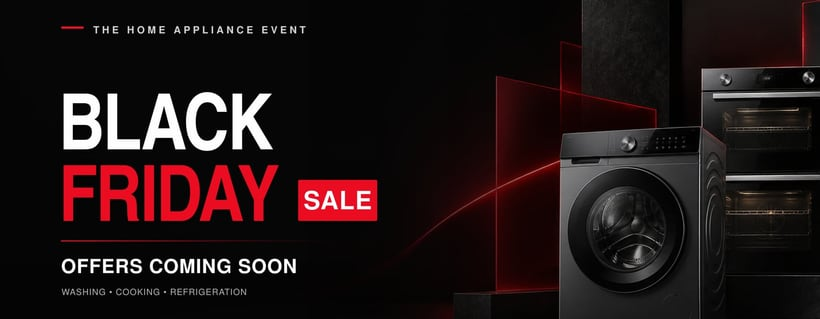
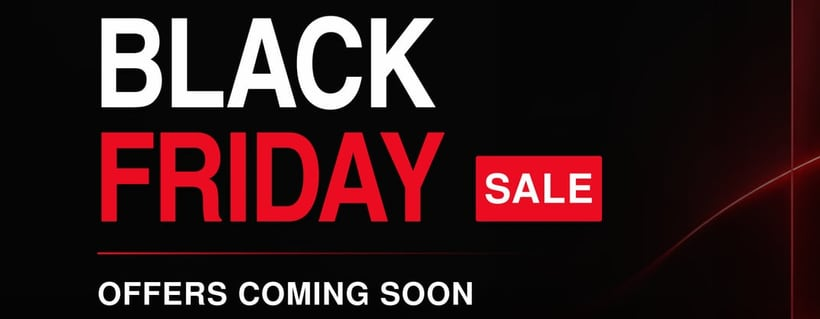
Delivery: the four towns and postcode groups the owner named
Greenford, Ealing, Southall and Watford join the area list, and the copy now
states the reach as HA, UB, W3-W6 and WD3-WD24 — on the homepage, its postcode
checker and the delivery page.

The checker had to change with it. It matched on letters alone, so adding W
would have told a W1 or W12 caller we deliver while the page said W3-W6, and WD
already covered WD1 and WD25. It now reads the district and honours the ranges.
Parsing that turned out to matter: stripping the space first read "W5 2AB" as
district 52, so it drops the three-character inward code instead. 21 cases
checked, including both ends of each range.

Also shrink the promo band from 407px to 255px: the Black Friday poster is
cropped to BLACK FRIDAY SALE and OFFERS COMING SOON, cut at the clean gap above
the category line, which leaves the Euronics banners with 19px of their own
colour rather than 95px.

diff --git a/components/PostcodeCheck.tsx b/components/PostcodeCheck.tsx
@@ -6,10 +6,26 @@ import { adSource } from "@/lib/ad-source";
 
 // Genuine own-van reach only (HA4 0QP shop). Wider prefixes go via the phone —
 // we'd sooner say "call us" than promise a van we can't send. Owner (Aug 2026):
-// "we deliver to certain WD, SL postcodes as well" — SL added; exact street is
-// still confirmed on the phone, which the result copy already says.
-const LOCAL = ["HA", "UB", "WD", "TW", "SL"];
-const outward = (pc: string) => pc.toUpperCase().replace(/\s+/g, "").match(/^[A-Z]{1,2}/)?.[0] || "";
+// "we deliver to certain WD, SL postcodes as well" — SL added. Sep 2026 he named
+// Greenford, Ealing, Southall and Watford and asked the site to say HA, UB,
+// W3-W6 and WD3-WD24, so W joins the list; the exact street is still confirmed
+// on the phone, which the result copy already says.
+const LOCAL = ["HA", "UB", "TW", "SL"];
+// W and WD are only partly ours: the owner's reach is W3-W6 and WD3-WD24, so
+// matching the bare letters would tell a W1 or a WD1 caller we deliver when the
+// rest of the page says we do not.
+const RANGES: [string, number, number][] = [["W", 3, 6], ["WD", 3, 24]];
+const isLocal = (pc: string) => {
+  // The inward code is always three characters, so dropping them is what leaves
+  // the district. Parsing the whole string instead read "W5 2AB" as district 52.
+  const clean = pc.toUpperCase().replace(/[^A-Z0-9]/g, "");
+  const outward = clean.length > 3 ? clean.slice(0, -3) : clean;
+  const m = outward.match(/^([A-Z]{1,2})(\d{1,2})?/);
+  if (!m) return false;
+  const [, area, num] = m;
+  if (LOCAL.includes(area)) return true;
+  return num !== undefined && RANGES.some(([a, lo, hi]) => a === area && +num >= lo && +num <= hi);
+};
 
 /** Inline hero postcode checker — a flat white strip on the royal-blue hero band. */
 export default function PostcodeCheck({ phone }: { phone: string }) {
@@ -20,7 +36,7 @@ export default function PostcodeCheck({ phone }: { phone: string }) {
     e.preventDefault();
     const pc = value.trim().toUpperCase();
     if (!pc) return;
-    const local = LOCAL.includes(outward(pc));
+    const local = isLocal(pc);
     setResult({ local, pc });
     // Same first-party "postcode_check" event the old prompt fired — the owner's
     // demand map and verify-analytics.mjs both depend on this exact shape.

diff --git a/app/page.tsx b/app/page.tsx
@@ -39,7 +39,8 @@ const STEPS = [
   ["04", "Arrange delivery / fitting", "We book in delivery and installation that suits you."],
 ];
 
-const AREAS = ["Ruislip", "South Ruislip", "Eastcote", "Northolt", "Pinner", "Ickenham", "Ruislip Manor"];
+const AREAS = ["Ruislip", "South Ruislip", "Eastcote", "Northolt", "Pinner", "Ickenham", "Ruislip Manor",
+  "Greenford", "Ealing", "Southall", "Watford"];
 
 export default async function Home() {
   const { products, categories, brands, business } = await loadCatalog();
@@ -456,8 +457,10 @@ export default async function Home() {
             </h2>
             <p className="mb-7 text-base leading-relaxed text-muted">
               Our own local delivery and fitting covers Ruislip, South Ruislip, Eastcote, Northolt, Pinner,
-              Ickenham and the surrounding HA postcodes. Because we deliver ourselves, we can talk you through
-              dates, access and installation before anything leaves the shop.
+              Ickenham, Greenford, Ealing, Southall and Watford — the <strong className="font-semibold text-ink">HA</strong>,{" "}
+              <strong className="font-semibold text-ink">UB</strong>, <strong className="font-semibold text-ink">W3&ndash;W6</strong>{" "}
+              and <strong className="font-semibold text-ink">WD3&ndash;WD24</strong> postcodes. Because we deliver
+              ourselves, we can talk you through dates, access and installation before anything leaves the shop.
             </p>
             <div className="flex flex-wrap gap-2.5">
               {AREAS.map((a) => (
@@ -468,7 +471,7 @@ export default async function Home() {
           <div className="rounded-[4px] border border-ink/10 bg-card p-9">
             <h3 className="mb-3 font-display text-[28px]">Are we in your area?</h3>
             <p className="mb-6 text-[14.5px] leading-relaxed text-muted">
-              We deliver locally around {business.address.postcode} and the surrounding Ruislip postcodes.
+              We deliver to the HA, UB, W3&ndash;W6 and WD3&ndash;WD24 postcodes from {business.address.postcode}.
               Rather than overpromise, we&apos;d sooner you call — we&apos;ll tell you honestly whether we cover
               you, what it costs and when we can come.
             </p>

diff --git a/components/PromoBanners.tsx b/components/PromoBanners.tsx
@@ -41,7 +41,7 @@ export default function PromoBanners({ promos }: { promos: Promo[] }) {
          colour, so nothing is cropped and the padding reads as surround rather
          than a gap. On a phone all three are cut to the same 2.57:1, so nothing
          is padded there at all. */
-      className="relative aspect-[386/150] w-full overflow-hidden sm:aspect-[2220/664]"
+      className="relative aspect-[386/150] w-full overflow-hidden sm:aspect-[2220/416]"
     >
       {promos.map((p, k) => (
         <Link key={p.href} href={p.href} aria-hidden={k !== i} tabIndex={k === i ? 0 : -1}
@@ -51,7 +51,7 @@ export default function PromoBanners({ promos }: { promos: Promo[] }) {
           <picture>
             <source media="(min-width: 640px)" srcSet={p.wide} />
             {/* eslint-disable-next-line @next/next/no-img-element */}
-            <img src={p.mobile} alt={p.alt} width={2220} height={664} loading="lazy"
+            <img src={p.mobile} alt={p.alt} width={2220} height={416} loading="lazy"
               className="h-full w-full object-contain" />
           </picture>
         </Link>

diff --git a/app/delivery-services/page.tsx b/app/delivery-services/page.tsx
@@ -55,9 +55,10 @@ export default async function DeliveryPage() {
           <div className="max-w-[560px]">
             <h2 className="mb-2 font-display text-[28px]">Are we in your area?</h2>
             <p className="text-[14.5px] leading-relaxed text-[#44586f]">
-              We deliver locally around {business.address.postcode} and the surrounding Ruislip postcodes.
-              Rather than overpromise, we&apos;d sooner you call — we&apos;ll tell you honestly whether we
-              cover you, what it costs and when we can come.
+              We deliver to the HA, UB, W3&ndash;W6 and WD3&ndash;WD24 postcodes from {business.address.postcode} —
+              Ruislip, Greenford, Ealing, Southall, Watford and the towns between. Rather than overpromise,
+              we&apos;d sooner you call — we&apos;ll tell you honestly whether we cover you, what it costs and
+              when we can come.
             </p>
           </div>
           <a href={telHref(business.phone)}
